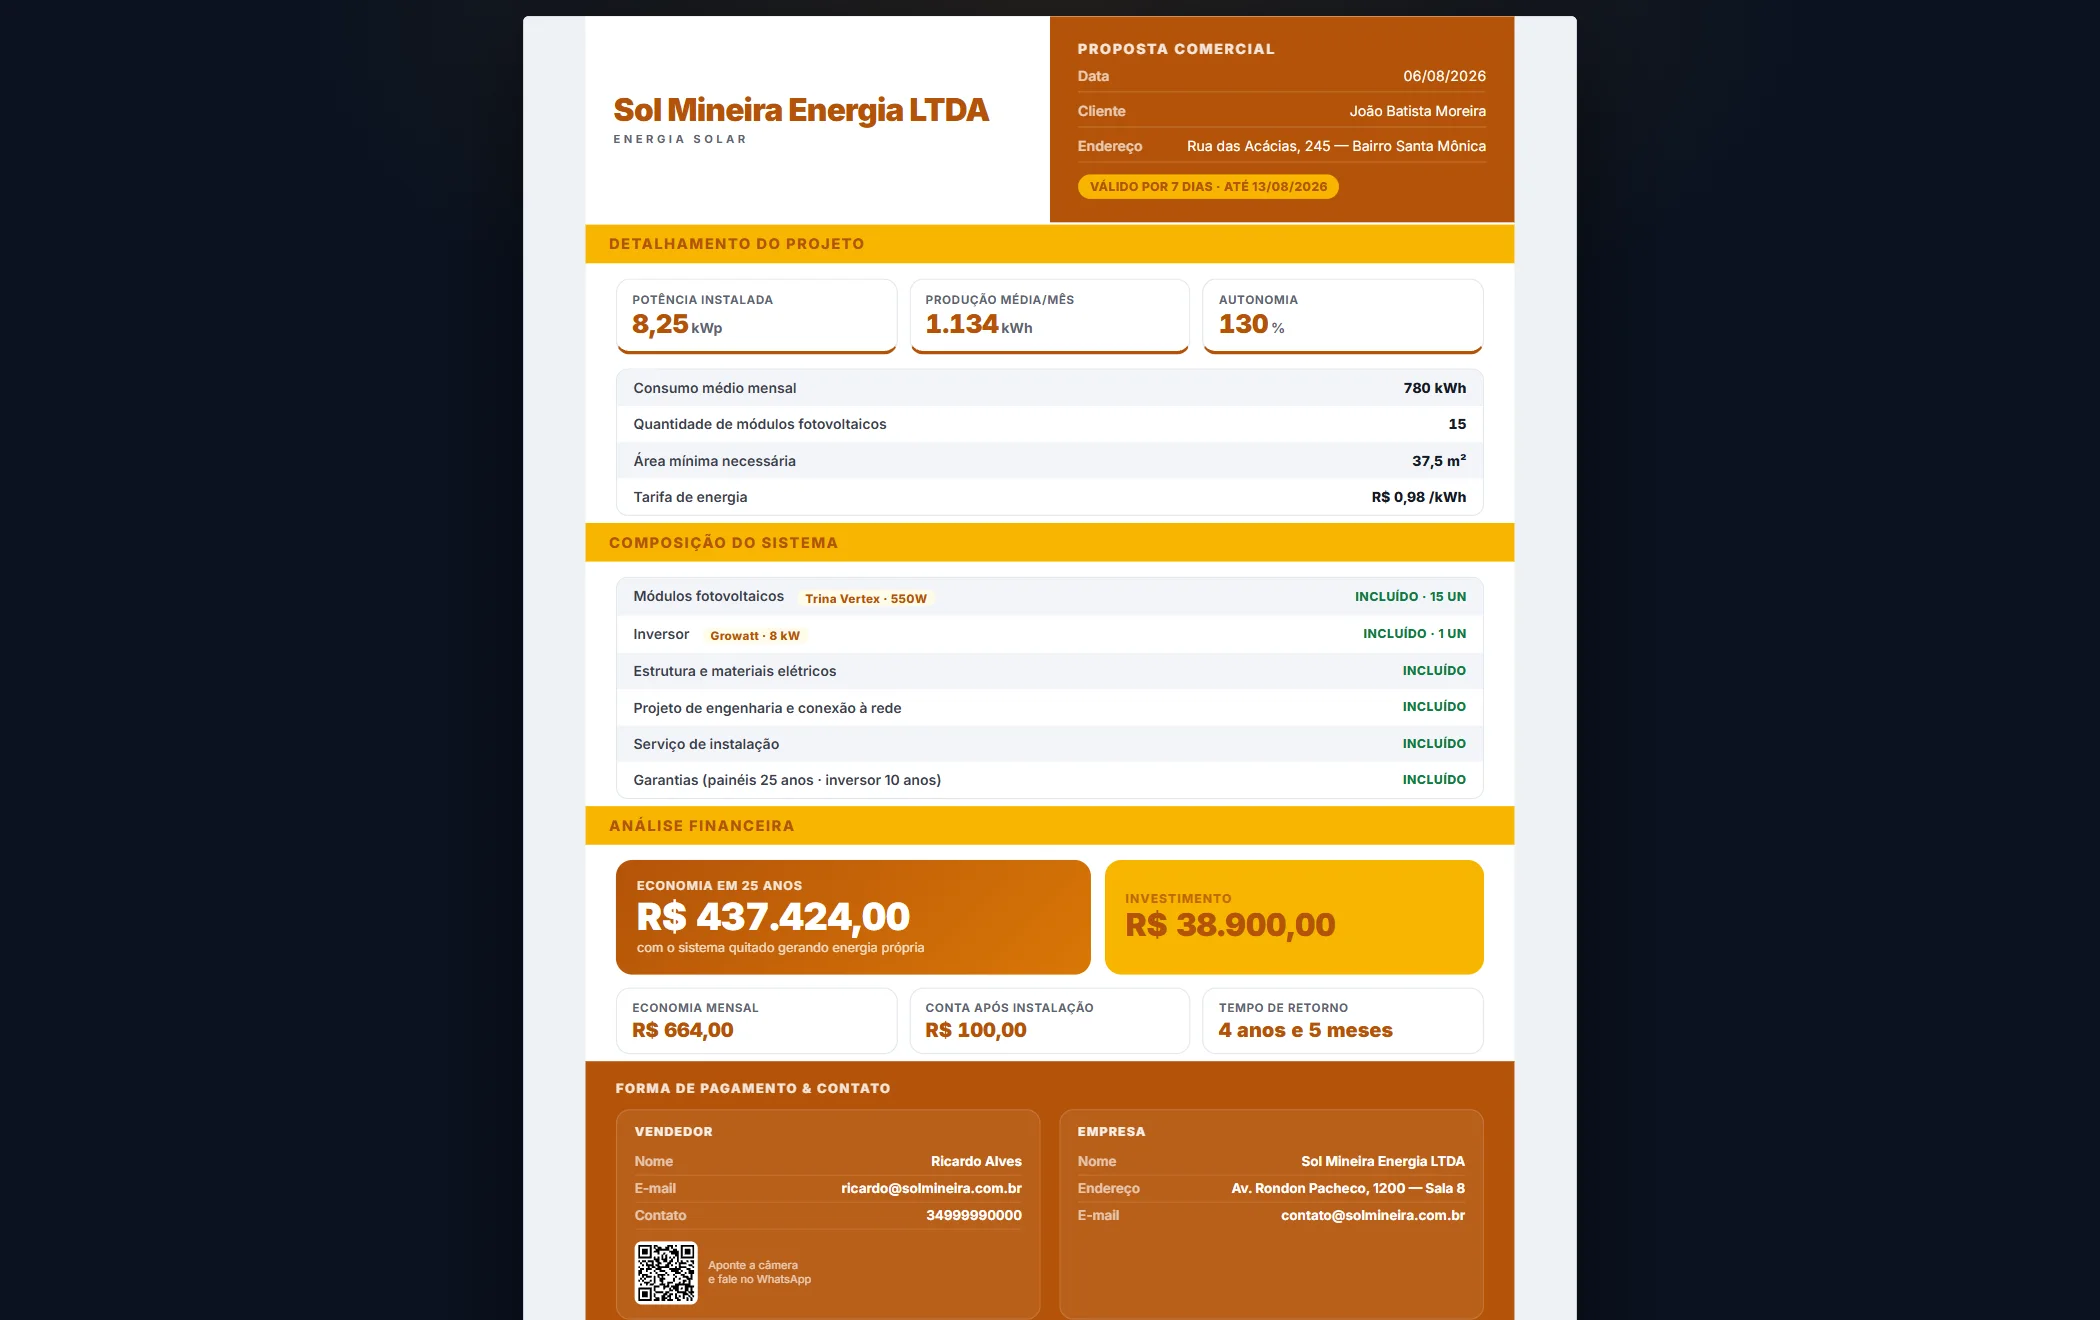
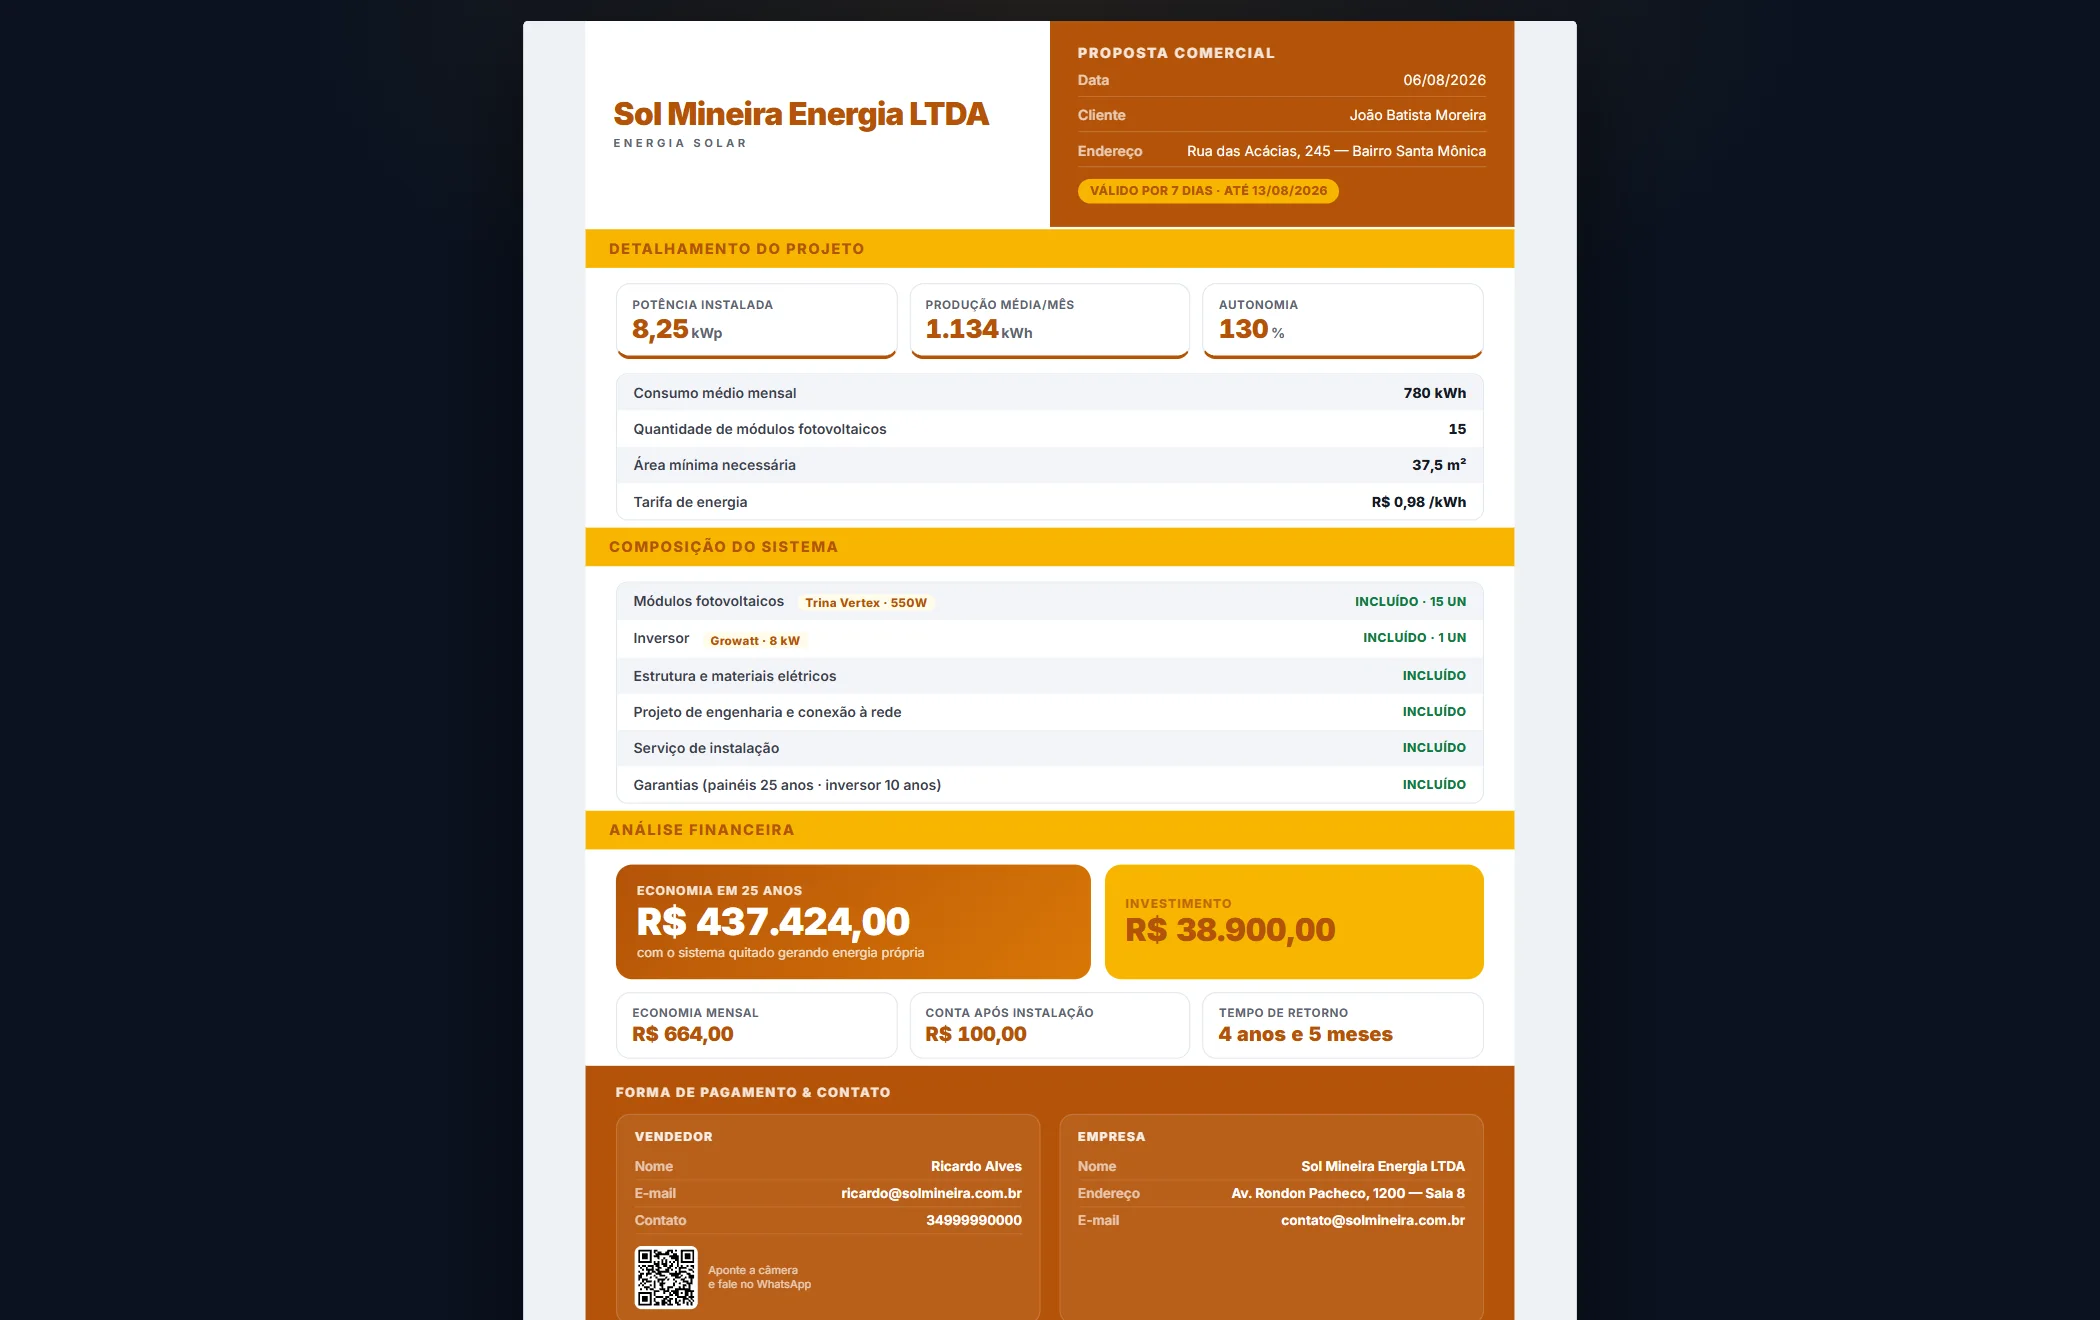
feat(lp): 8 documentos no carrossel a cada 3s, sem as barras e com CTA grande
Pedidos do Thiago, na ordem:

1. MAIS DOCUMENTO NO CARROSSEL. Eram 5, agora sao 8 - entraram procuracao,
   recibo e proposta de banco, todos gerados de verdade. O recibo e o que
   mais mostra servico: lanca as parcelas e ele calcula sozinho o pago
   (R$ 24.450) e o saldo em aberto (R$ 14.450).

   Pra chegar neles o preenchimento automatico teve que cobrir TODO campo
   vazio, nao so os [required] - esses dois formularios validam em JS sem
   marcar required no HTML, e era por isso que paravam no formulario.

2. TROCA A CADA 3s (era 4,5s).

3. SAIU A TARJA VERDE do topo e a BARRA FIXA DE PRECO do rodape. A
   variavel --promobar-h fica em 0 porque o nav ainda a usa no `top` -
   assim ele gruda no topo sem a tarja.

4. BOTOES DE CTA MAIORES: o principal foi de 17px/18-32 pra 21px/24-46, o
   da oferta de 18px pra 22px com mais respiro, e o do topo de 12px pra
   14,5px. No celular o CTA passa a ocupar a largura toda.

Tambem: o produto na Stripe passa a se chamar SolarDoc.APP (o titulo do
checkout era "Assinar SolarDoc VIP", nome da epoca dos dois planos). O
guard do sync agora compara nome E imagem - so a imagem deixaria o nome
velho pra sempre, porque a imagem ja tinha sido carimbada.

E corrige o print mobile das propostas: a folha (900px) e mais larga que a
tela (390px), e centralizar por flex + scale cortava o lado direito.
Posicao absoluta com translateX(-50%) e deterministica.

diff --git a/dashboard/src/components/Landing/Landing.tsx b/dashboard/src/components/Landing/Landing.tsx
@@ -87,6 +87,24 @@ const TELAS = [
     texto: 'Partes, equipamentos, prazos e garantias já escritos. Você só confere e envia.',
   },
   {
+    img: '/tela/doc-procuracao.webp',
+    imgMobile: '/tela/doc-procuracao-mobile.webp',
+    titulo: 'Procuração pra concessionária',
+    texto: 'Com UC, concessionária e os poderes certos — no padrão que passa de primeira.',
+  },
+  {
+    img: '/tela/doc-recibo.webp',
+    imgMobile: '/tela/doc-recibo-mobile.webp',
+    titulo: 'Recibo com saldo em aberto',
+    texto: 'Lança as parcelas e ele calcula sozinho quanto o cliente já pagou e quanto falta.',
+  },
+  {
+    img: '/tela/doc-banco.webp',
+    imgMobile: '/tela/doc-banco-mobile.webp',
+    titulo: 'Proposta pro banco financiar',
+    texto: 'No formato que a financeira pede: equipamento, mão de obra e valor total separados.',
+  },
+  {
     img: '/tela/precificacao.webp',
     imgMobile: '/tela/precificacao-mobile.webp',
     titulo: 'O preço certo, antes de mandar',
@@ -172,50 +190,25 @@ export default function Landing() {
     router.push(`/auth?${qs.toString()}`);
   }
 
-  // Barra fixa de compra no mobile: só aparece depois que a pessoa passou do
-  // hero (senão cobre a dobra logo na entrada).
-  //
-  // ATENÇÃO ao jeito de ler a rolagem: o globals.css põe `overflow-x: hidden`
-  // no html E no body, o que faz do BODY o container de rolagem — window.scrollY
-  // fica travado em 0 na página inteira e o evento 'scroll' nem chega no window
-  // (scroll não borbulha). Por isso o listener é em fase de CAPTURA e a posição
-  // sai do body. Com o listener normal a barra nunca aparecia.
-  const [showBar, setShowBar] = useState(false);
-  useEffect(() => {
-    if (typeof window === 'undefined') return;
-    const posicao = () =>
-      document.body.scrollTop || document.documentElement.scrollTop || window.scrollY || 0;
-    const onScroll = () => setShowBar(posicao() > 640);
-    onScroll();
-    window.addEventListener('scroll', onScroll, { passive: true, capture: true });
-    return () => window.removeEventListener('scroll', onScroll, true);
-  }, []);
-
   const ctaLabel = checkoutLoading ? 'Abrindo checkout...' : `Assinar agora — R$ ${PRICE}/mês`;
 
   // ---- Carrossel das telas (prints REAIS do app, capturados com dados de
   // demonstração). É webp e não GIF de propósito: um GIF de tela cheia dá 2 a
   // 5 MB cada e mata o carregamento no 4G — aqui cada print tem ~70 KB e o
-  // movimento vem da troca automática. Pausa no hover/toque e respeita quem
-  // pediu menos animação no sistema.
+  // movimento vem da troca automática (3s, como o Thiago pediu). Pausa no
+  // hover/toque e respeita quem pediu menos animação no sistema.
   const [slide, setSlide] = useState(0);
   const [pausado, setPausado] = useState(false);
   useEffect(() => {
     if (pausado) return;
     if (typeof window !== 'undefined'
       && window.matchMedia?.('(prefers-reduced-motion: reduce)').matches) return;
-    const id = setInterval(() => setSlide(s => (s + 1) % TELAS.length), 4500);
+    const id = setInterval(() => setSlide(s => (s + 1) % TELAS.length), 3000);
     return () => clearInterval(id);
   }, [pausado]);
 
   return (
     <div className={styles.page}>
-      {/* BARRA DO TOPO — plano único (clica → rola pra oferta) */}
-      <button type="button" className={styles.promoBar} onClick={() => scrollToPlans('promobar')} aria-label="Plano único de R$ 67 por mês — ver a oferta">
-        <span className={styles.promoDot} aria-hidden="true" />
-        Plano único • R$ {PRICE}/mês • acesso liberado na hora
-      </button>
-
       {/* NAV */}
       <nav className={styles.nav}>
         <div className={styles.navInner}>
@@ -1009,16 +1002,6 @@ export default function Landing() {
         </div>
       </footer>
 
-      {/* BARRA DE COMPRA FIXA — mobile */}
-      <div className={`${styles.buyBar} ${showBar ? styles.buyBarOn : ''}`}>
-        <div className={styles.buyBarInfo}>
-          <b>R$ {PRICE}/mês</b>
-          <span>tudo liberado · na hora</span>
-        </div>
-        <button onClick={() => goToCheckout('barra_fixa')} className={styles.buyBarBtn} disabled={checkoutLoading}>
-          {checkoutLoading ? 'Abrindo...' : 'Assinar agora'}
-        </button>
-      </div>
     </div>
   );
 }

diff --git a/dashboard/src/components/Landing/Landing.module.css b/dashboard/src/components/Landing/Landing.module.css
@@ -46,7 +46,9 @@
      cliente sai da LP e entra no dashboard. (O fundo dark da LP é proposital.) */
   --color-primary: #F26513;
   --color-primary-hover: #E0560A;
-  --promobar-h: 40px; /* altura da barra de urgência — usada pra empilhar o nav abaixo dela */
+  /* A tarja verde do topo saiu em 06/08/2026 (pedido do Thiago). A variável
+     fica em 0 porque o nav ainda a usa no `top` — assim ele gruda no topo. */
+  --promobar-h: 0px;
 
   min-height: 100vh;
   background: #0F172A;
@@ -123,9 +125,9 @@
   background: var(--color-primary);
   color: #0f172a;
   font-weight: 800;
-  font-size: 12px;
-  padding: 9px 16px;
-  border-radius: 9px;
+  font-size: 14.5px;
+  padding: 13px 24px;
+  border-radius: 11px;
   white-space: nowrap;
   transition: background 0.15s, box-shadow 0.15s, transform 0.15s;
   border: none;
@@ -135,7 +137,7 @@
   display: inline-flex;
   align-items: center;
   justify-content: center;
-  min-height: 40px; /* tap target confortável no mobile (era ~31px) */
+  min-height: 46px; /* tap target confortável no mobile */
 }
 .navCta:hover {
   background: var(--color-primary-hover);
@@ -147,7 +149,7 @@
   .navInner { padding: 12px 14px; gap: 6px; }
   .brand { font-size: 15px; }
   .navLink { font-size: 12.5px; padding: 7px 8px; }
-  .navCta { font-size: 11px; padding: 8px 12px; }
+  .navCta { font-size: 13px; padding: 11px 16px; }
 }
 @media (max-width: 380px) {
   .brand { font-size: 14px; gap: 6px; }
@@ -1690,9 +1692,9 @@
   background: linear-gradient(135deg, #fbbf24, #f59e0b);
   color: #0f172a;
   font-weight: 800;
-  font-size: 17px;
-  padding: 18px 32px;
-  border-radius: 14px;
+  font-size: 21px;
+  padding: 24px 46px;
+  border-radius: 16px;
   border: none;
   cursor: pointer;
   transition: transform 0.15s, box-shadow 0.2s;
@@ -1893,7 +1895,7 @@
   .finalCtaTitle { font-size: clamp(24px, 6vw, 32px); }
   .finalCtaTitle br { display: none; }
   .finalCtaSub { font-size: 14px; margin-bottom: 22px; }
-  .finalCtaBtn { font-size: 15px; padding: 15px 24px; border-radius: 12px; }
+  .finalCtaBtn { font-size: 18px; padding: 20px 28px; border-radius: 14px; width: 100%; justify-content: center; }
   .finalCtaFoot { font-size: 11px; }
 
   /* FOOTER */
@@ -2084,10 +2086,7 @@
   70%  { box-shadow: 0 0 0 8px rgba(255, 255, 255, 0); }
   100% { box-shadow: 0 0 0 0 rgba(255, 255, 255, 0); }
 }
-@media (max-width: 480px) {
-  .page { --promobar-h: 36px; }
-  .promoBar { font-size: 11.5px; letter-spacing: 0.2px; }
-}
+
 
 /* ===== Hero: mockup do produto (proposta no laptop + celular) ===== */
 .heroProduct {
@@ -2365,13 +2364,13 @@
   display: block;
   width: 100%;
   margin-top: 30px;
-  padding: 19px 24px;
+  padding: 26px 24px;
   border: none;
-  border-radius: 14px;
+  border-radius: 16px;
   background: linear-gradient(135deg, #fbbf24, #f59e0b);
   color: #0f172a;
   font-family: inherit;
-  font-size: 18px;
+  font-size: 22px;
   font-weight: 900;
   letter-spacing: -0.01em;
   cursor: pointer;
@@ -2760,7 +2759,7 @@
   .offerPrice { font-size: 52px; }
   .offerPrice span { font-size: 22px; }
   .offerList li { font-size: 13.5px; padding-left: 26px; }
-  .offerBtn { font-size: 15.5px; padding: 16px 18px; margin-top: 24px; }
+  .offerBtn { font-size: 18px; padding: 22px 18px; margin-top: 24px; }
   .offerFoot { font-size: 11.5px; }
   .guarantee { font-size: 12.5px; padding: 14px; gap: 11px; }
   .offerBadge { font-size: 11.5px; padding: 8px 12px; }

diff --git a/api/src/controllers/paymentsController.ts b/api/src/controllers/paymentsController.ts
@@ -92,6 +92,11 @@ function planByPrice(priceId: string) {
 // ícone do app, nome e uma linha. Trocar o NOME do arquivo é de propósito —
 // é o que faz o sync abaixo detectar diferença e recarimbar o produto.
 const CHECKOUT_IMG = `${(process.env.DASHBOARD_URL || 'https://solardoc.app').trim()}/checkout-solardoc-2.jpg`;
+// O nome do produto é o título do checkout ("Assinar ___"). Era "SolarDoc VIP",
+// nome da época dos dois planos — hoje a página vende plano único. Decisão do
+// Thiago (06/08/2026). Vale também na fatura de quem já assina, na próxima
+// cobrança.
+const CHECKOUT_NOME = 'SolarDoc.APP';
 const vitrineFeita = new Set<string>();
 
 async function garantirVitrineStripe(priceId: string, descricao: string): Promise<void> {
@@ -99,10 +104,17 @@ async function garantirVitrineStripe(priceId: string, descricao: string): Promis
   vitrineFeita.add(priceId); // marca antes: uma tentativa por price/instância, sem repique
   try {
     const price = await stripe.prices.retrieve(priceId, { expand: ['product'] });
-    const product = price.product as { id?: string; images?: string[] } | null;
+    const product = price.product as { id?: string; images?: string[]; name?: string } | null;
     if (!product?.id) return;
-    if (product.images?.[0] === CHECKOUT_IMG) return; // já está na arte nova
-    await stripe.products.update(product.id, { description: descricao, images: [CHECKOUT_IMG] });
+    // Sai fora só quando TUDO já está no lugar. Checar apenas a imagem deixaria
+    // o nome velho pra sempre — a imagem já tinha sido carimbada antes dele.
+    const jaOk = product.images?.[0] === CHECKOUT_IMG && product.name === CHECKOUT_NOME;
+    if (jaOk) return;
+    await stripe.products.update(product.id, {
+      name: CHECKOUT_NOME,
+      description: descricao,
+      images: [CHECKOUT_IMG],
+    });
     console.log('[stripe] vitrine do produto atualizada:', product.id);
   } catch (err) {
     console.error('[stripe] sync da vitrine falhou (checkout intacto):', err);
